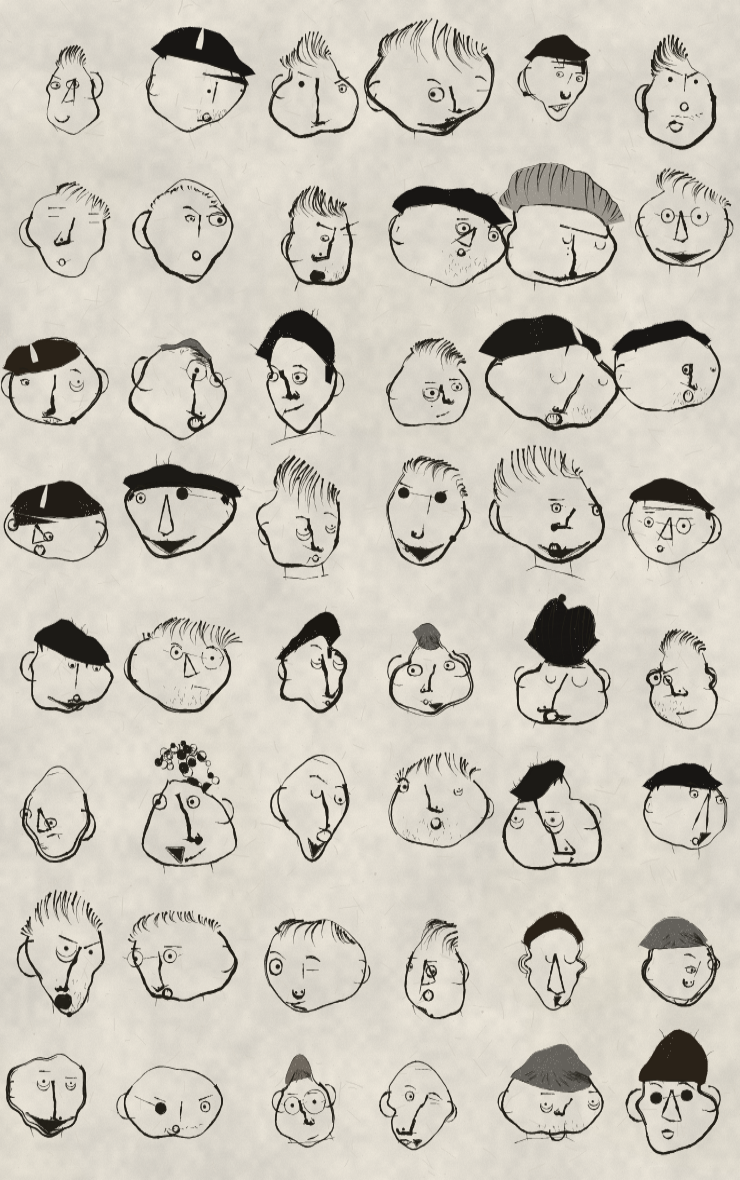
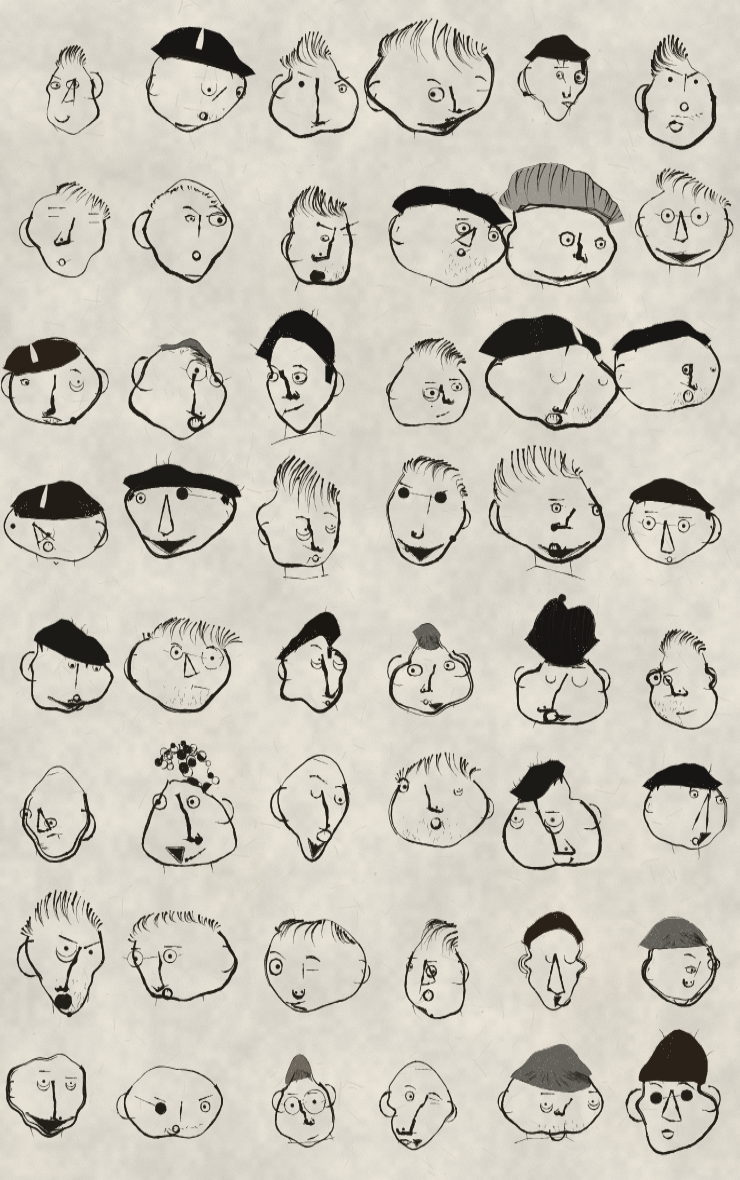
Gauntlet: brims built off the face-forward vector
Third variation on one root cause. The crown arc, the headband and now
the brim were all features pinned at raw 3D coordinates and then filled:
under yaw they swing sideways, collapse to a sliver and land across the
face as a black wedge. Capping how far the brim could travel only made
the wedge shorter.

A brim is now built in screen space from the hairline, pushed along the
face-forward vector, so it foreshortens as the head turns the way a brim
seen from the side does. pinOut is down to a single remaining caller.

Claude-Session: https://claude.ai/code/session_01RJWY9ufwnD6fjwW6ve4one

diff --git a/dude.js b/dude.js
@@ -1420,6 +1420,26 @@
     }
   }
 
+  // A peak pinned at raw 3D coordinates swings sideways under yaw and lays a
+  // black wedge across the face. Built off the face-forward vector in screen
+  // space it foreshortens instead, the way a brim seen from the side does.
+  function brimPts(skull, h, reach, rng) {
+    if (!h || h.front.length < 3) return null;
+    const c0 = skull.project({ x: 0, y: -0.2, z: 0 });
+    const c1 = skull.project({ x: 0, y: -0.2, z: 1 });
+    const fx = c1.x - c0.x;
+    const fy = c1.y - c0.y;
+    const f = h.front;
+    const n = f.length;
+    const pick = [f[0], f[Math.round(n * 0.25)], f[Math.round(n * 0.5)], f[Math.round(n * 0.75)], f[n - 1]];
+    const out = pick.map((p, i) => {
+      const t = i / (pick.length - 1);
+      const k = reach * Math.sin(t * Math.PI) * rng.f(0.85, 1.15);
+      return { x: p.x + fx * k, y: p.y + fy * k };
+    });
+    return pick.concat(out.reverse());
+  }
+
   function drawHair(c, rng, skull, hull, style, color) {
     const s = skull.s;
     const shape = rng.pick(["flat", "peak", "peak", "round", "sweep", "receded", "jagged", "low"]);
@@ -1574,12 +1594,10 @@
       const h = mk({ lineY: -0.46, bangs: 0.02, puff: 0.09, wob: 0.02, outer: "flattop" });
       if (h) {
         inkMass(c, rng, h, color, { strays: 0, rag: 1.1, edge: 3.2 });
-        const bL = pinOut(skull, { x: -0.5, y: -0.3, z: 0.78 });
-        const bR = pinOut(skull, { x: 0.5, y: -0.3, z: 0.78 });
-        const bC = pinOut(skull, { x: 0.02, y: -0.2, z: 1.3 });
-        if (bC.z > -0.1) {
-          inkMassFill(c, rng, [bL, bC, bR], color, { bite: s * 0.026 });
-          inkPoly(c, rng, [bL, bC, bR], { w: s * 0.023, passes: 2, dry: 0.5 });
+        const brim = brimPts(skull, h, rng.f(0.3, 0.62), rng);
+        if (brim) {
+          inkMassFill(c, rng, brim, color, { bite: s * 0.026 });
+          inkPoly(c, rng, brim, { closed: true, w: s * 0.023, dry: 0.5 });
         }
       }
       return;
@@ -1602,13 +1620,12 @@
         c.restore();
         inkPoly(c, rng, h.top, { w: s * 0.019, dry: 0.7 });
         inkPoly(c, rng, h.front, { w: s * 0.03, dry: 0.35, passes: 2 });
-        const bL = pinOut(skull, { x: -0.42, y: -0.24, z: 0.9 });
-        const bR = pinOut(skull, { x: 0.42, y: -0.24, z: 0.9 });
-        const bC = pinOut(skull, { x: 0.0, y: -0.1, z: 1.42 });
-        inkPoly(c, rng, [bL, bC, bR], { w: s * 0.026, passes: 2, dry: 0.5 });
-        const bL2 = pinOut(skull, { x: -0.3, y: -0.2, z: 1.02 });
-        const bR2 = pinOut(skull, { x: 0.3, y: -0.2, z: 1.02 });
-        inkPoly(c, rng, [bL2, bC, bR2], { w: s * 0.014 });
+        const brim = brimPts(skull, h, rng.f(0.34, 0.7), rng);
+        if (brim) {
+          inkPoly(c, rng, brim, { closed: true, w: s * 0.026, dry: 0.5 });
+          const half = brim.slice(Math.floor(brim.length / 2));
+          inkPoly(c, rng, half, { w: s * 0.014, dry: 0.9 });
+        }
       }
       return;
     }

diff --git a/progress.html b/progress.html
@@ -153,6 +153,15 @@
   <h3>The sleeve that was reading as a seam</h3>
   <p>A straight rule across the arm at the same fraction of its length on both sides is not a cuff, it is the join where two tubes were butted together — which is exactly what a critic called it. The mark is now bowed, short of one or both edges, at a different height on each arm, and absent about one sleeve in five.</p>
 
+  <h3>“Every stripe crosses both arms, so the arms read as transparent.”</h3>
+  <p>Correct, and it was an ordering bug: arms were drawn before the garment, so every hem and stripe ran straight over them. Arms are now drawn last, over the finished garment — which is also the order a person draws them in. The hem stopped being a ruled line at the same time; it wanders on six points and stops short of the silhouette rather than running out past it.</p>
+
+  <h3>The hat brim, third variation on the same theme</h3>
+  <p>Three separate escapes have now been traced to the same root cause: a feature pinned at raw 3D coordinates and then filled. The crown arc, the headband, and now the brim — a peak at z=1.3 swings a full head-radius sideways as the head turns, collapses to a sliver, and lands across an eye as a black wedge. Capping how far it could travel only shortened the wedge. The brim is now built in screen space off the face-forward vector, so it foreshortens as the head turns, the way a brim seen from the side actually does.</p>
+
+  <h3>Letters that had stopped being letters</h3>
+  <p>Per-glyph shear, bulge and jitter were introduced to stop repeated letters superimposing, and a critic confirmed that worked. Pushed too far, though, and OTTO reads as 0550. All five distortion axes pulled back to the point where the variation survives and the word does too — the honest version of this is that a legibility check should have gone in with the distortion.</p>
+
   <h2>Still open</h2>
   <ul>
     <li>Every round, the critics still identify our sheets and still rank both Mannay plates above them. The gap has narrowed — one round put ours above one of his — but he has not been beaten.</li>
